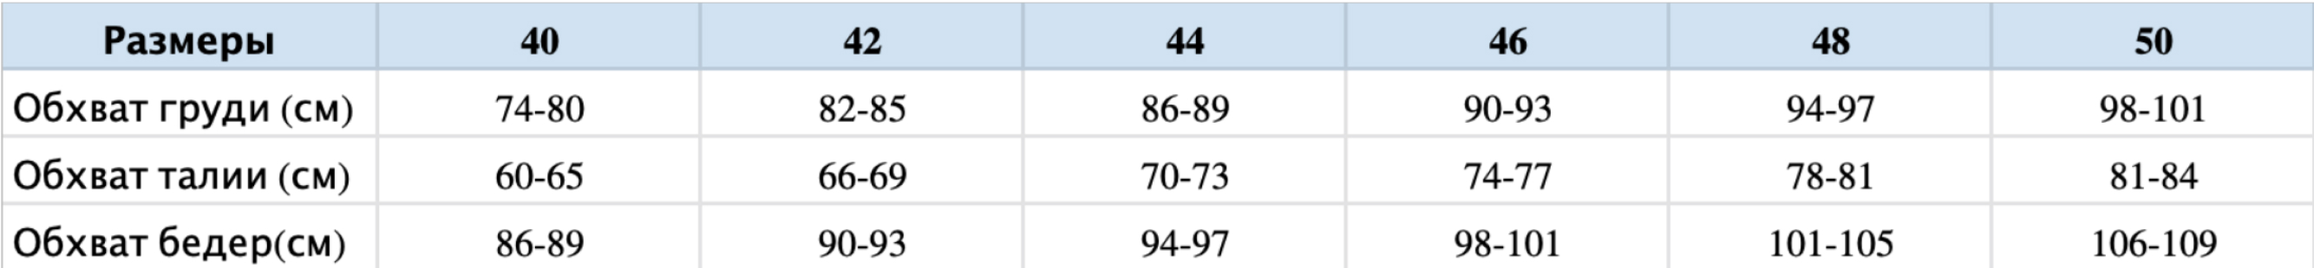
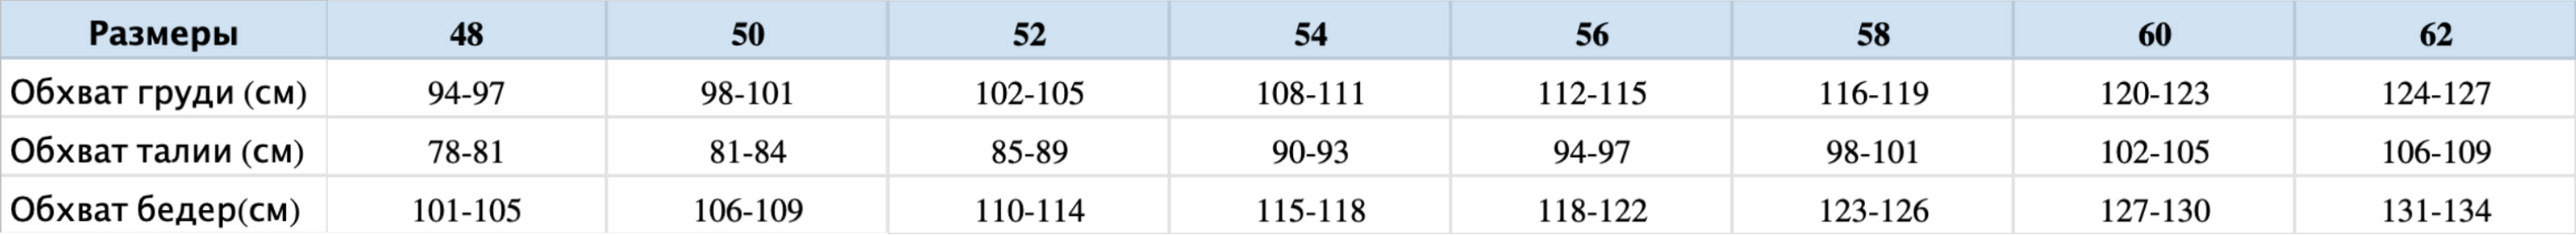
new updates

diff --git a/public/css/main.css b/public/css/main.css
@@ -139,7 +139,7 @@ html,body
     position: fixed;
     background: rgba(128, 128, 128, 0.36);
     display:none;
-    z-index:9999;
+    z-index:999;
 }
 .social {
     padding:15px;

diff --git a/resources/views/modals/size_table.blade.php b/resources/views/modals/size_table.blade.php
@@ -10,9 +10,9 @@
                 <div class="col-12">
                     <img class="img-fluid" src="{{ asset('images/table-lg1.jpg') }}" alt="">
                 </div>
-                <div class="col-12 mt-5">
-                    <img class="img-fluid" src="{{ asset('images/table-lg2.jpg') }}" alt="">
-                </div>
+                {{--<div class="col-12 mt-5">--}}
+                    {{--<img class="img-fluid" src="{{ asset('images/table-lg2.jpg') }}" alt="">--}}
+                {{--</div>--}}
             </div>
                 <div class="p-4">
                     <p class="font-size-14 line-height-120 mb-1">Модели полноразмерные соответствуют российской
@@ -52,10 +52,10 @@
                         </div>
                         <div class="col-8 px-0" style="overflow-x: auto; overflow-y: hidden">
                             <div class="d-flex py-3 align-items-center" style="width:max-content; height: 77px;">
-                                <div class="text-center" style="width: 80px;">40</div>
-                                <div class="text-center" style="width: 80px;">42</div>
-                                <div class="text-center" style="width: 80px;">44</div>
-                                <div class="text-center" style="width: 80px;">46</div>
+                                {{--<div class="text-center" style="width: 80px;">40</div>--}}
+                                {{--<div class="text-center" style="width: 80px;">42</div>--}}
+                                {{--<div class="text-center" style="width: 80px;">44</div>--}}
+                                {{--<div class="text-center" style="width: 80px;">46</div>--}}
                                 <div class="text-center" style="width: 80px;">48</div>
                                 <div class="text-center" style="width: 80px;">50</div>
                                 <div class="text-center" style="width: 80px;">52</div>
@@ -66,10 +66,10 @@
                                 <div class="text-center" style="width: 80px;">62</div>
                             </div>
                             <div class="d-flex py-3" style="background-color: #EEEEEE; width: max-content; height: 77px;">
-                                <div class="text-center d-flex align-items-center justify-content-center" style="width: 80px;">74-80</div>
-                                <div class="text-center d-flex align-items-center justify-content-center" style="width: 80px;">82-85</div>
-                                <div class="text-center d-flex align-items-center justify-content-center" style="width: 80px;">86-89</div>
-                                <div class="text-center d-flex align-items-center justify-content-center" style="width: 80px;">90-93</div>
+                                {{--<div class="text-center d-flex align-items-center justify-content-center" style="width: 80px;">74-80</div>--}}
+                                {{--<div class="text-center d-flex align-items-center justify-content-center" style="width: 80px;">82-85</div>--}}
+                                {{--<div class="text-center d-flex align-items-center justify-content-center" style="width: 80px;">86-89</div>--}}
+                                {{--<div class="text-center d-flex align-items-center justify-content-center" style="width: 80px;">90-93</div>--}}
                                 <div class="text-center d-flex align-items-center justify-content-center" style="width: 80px;">94-97</div>
                                 <div class="text-center d-flex align-items-center justify-content-center" style="width: 80px;">98-101</div>
                                 <div class="text-center d-flex align-items-center justify-content-center" style="width: 80px;">102-105</div>
@@ -80,10 +80,10 @@
                                 <div class="text-center d-flex align-items-center justify-content-center" style="width: 80px;">124-127</div>
                             </div>
                             <div class="d-flex py-3" style="width: max-content; height: 77px;">
-                                <div class="text-center d-flex align-items-center justify-content-center" style="width: 80px;">60-65</div>
-                                <div class="text-center d-flex align-items-center justify-content-center" style="width: 80px;">66-69</div>
-                                <div class="text-center d-flex align-items-center justify-content-center" style="width: 80px;">70-73</div>
-                                <div class="text-center d-flex align-items-center justify-content-center" style="width: 80px;">74-77</div>
+                                {{--<div class="text-center d-flex align-items-center justify-content-center" style="width: 80px;">60-65</div>--}}
+                                {{--<div class="text-center d-flex align-items-center justify-content-center" style="width: 80px;">66-69</div>--}}
+                                {{--<div class="text-center d-flex align-items-center justify-content-center" style="width: 80px;">70-73</div>--}}
+                                {{--<div class="text-center d-flex align-items-center justify-content-center" style="width: 80px;">74-77</div>--}}
                                 <div class="text-center d-flex align-items-center justify-content-center" style="width: 80px;">78-81</div>
                                 <div class="text-center d-flex align-items-center justify-content-center" style="width: 80px;">82-85</div>
                                 <div class="text-center d-flex align-items-center justify-content-center" style="width: 80px;">86-89</div>
@@ -94,10 +94,10 @@
                                 <div class="text-center d-flex align-items-center justify-content-center" style="width: 80px;">106-109</div>
                             </div>
                             <div class="d-flex py-3" style="background-color: #EEEEEE; width: max-content; height: 77px;">
-                                <div class="text-center d-flex align-items-center justify-content-center" style="width: 80px;">86-89</div>
-                                <div class="text-center d-flex align-items-center justify-content-center" style="width: 80px;">90-93</div>
-                                <div class="text-center d-flex align-items-center justify-content-center" style="width: 80px;">94-97</div>
-                                <div class="text-center d-flex align-items-center justify-content-center" style="width: 80px;">98-101</div>
+                                {{--<div class="text-center d-flex align-items-center justify-content-center" style="width: 80px;">86-89</div>--}}
+                                {{--<div class="text-center d-flex align-items-center justify-content-center" style="width: 80px;">90-93</div>--}}
+                                {{--<div class="text-center d-flex align-items-center justify-content-center" style="width: 80px;">94-97</div>--}}
+                                {{--<div class="text-center d-flex align-items-center justify-content-center" style="width: 80px;">98-101</div>--}}
                                 <div class="text-center d-flex align-items-center justify-content-center" style="width: 80px;">102-105</div>
                                 <div class="text-center d-flex align-items-center justify-content-center" style="width: 80px;">106-109</div>
                                 <div class="text-center d-flex align-items-center justify-content-center" style="width: 80px;">110-114</div>

diff --git a/resources/views/layouts/app.blade.php b/resources/views/layouts/app.blade.php
@@ -37,6 +37,17 @@
 ?>
     <div id="app">
         <div class="mobile-backdrop"></div>
+        <div class="sidebar" id="mobile-catalog">
+            <i class="fas fa-times position-absolute fa-lg close-mobile-catalog" style="top:2%; right:10%;"></i>
+            <div class="p-4">
+                <p class="font-size-18 font-weight-bold mb-5">Каталог</p>
+
+                <p class="font-size-18 btn-link font-weight-light mb-1 text-dark" type="button" data-type="switch" data-id="all">Весь каталог</p>
+                @foreach($categories as $category)
+                    <p class="font-size-18 btn-link font-weight-light mb-1 text-dark" type="button" data-type="switch" data-id="{{ $category->id }}">{{ $category->title }}</p>
+                @endforeach
+            </div>
+        </div>
         @include('partials.header')
         <main class="py-4">
             @yield('content')
@@ -95,6 +106,8 @@
 
 
                         <div class="position-absolute w-100 h-100 px-2 py-lg-5 py-2 bg-white shadow-lg" id="settings-modal-{{$product->id}}" style="top:0%; left:0%; display: none; z-index: 99999;">
+                            <div class="d-flex h-100 align-items-center">
+                                <div class="w-100">
                             <img class="position-absolute" style="right:6%; top:2%; cursor: pointer;" id="close-modal" data-id="{{ $product->id }}" src="{{ asset('images/close.svg') }}" alt="">
                             <div>
                                 <p class="font-size-16 font-weight-bold text-center">Параметры</p>
@@ -130,7 +143,10 @@
                                     </div>
                                 </div>
                             </div>
-                            <button class="btn py-2 text-white position-absolute add-to-cart-modal" data-id="{{ $product->id }}" style="background: #2F2F2F; cursor: pointer;bottom: 30%; width: 90%; left:5%;">В корзину</button>
+                            </div>
+                            </div>
+                            <button class="btn py-2 text-white position-absolute add-to-cart-modal" data-id="{{ $product->id }}" style="background: #2F2F2F; cursor: pointer;bottom: 20%; width: 90%; left:5%;">В корзину</button>
+
                         </div>
                     </div>
                 </div>
@@ -177,23 +193,38 @@
         /></noscript>
     <!-- End Facebook Pixel Code -->
 
-    <!-- Yandex.Metrika counter -->
-    <script type="text/javascript" >
-        (function(m,e,t,r,i,k,a){m[i]=m[i]||function(){(m[i].a=m[i].a||[]).push(arguments)};
+<!-- Yandex.Metrika counter -->
+<script type="text/javascript" >
+    (function(m,e,t,r,i,k,a){m[i]=m[i]||function(){(m[i].a=m[i].a||[]).push(arguments)};
         m[i].l=1*new Date();k=e.createElement(t),a=e.getElementsByTagName(t)[0],k.async=1,k.src=r,a.parentNode.insertBefore(k,a)})
-        (window, document, "script", "https://mc.yandex.ru/metrika/tag.js", "ym");
+    (window, document, "script", "https://mc.yandex.ru/metrika/tag.js", "ym");
 
-        ym(66499177, "init", {
+    ym(66499177, "init", {
         clickmap:true,
         trackLinks:true,
         accurateTrackBounce:true,
         webvisor:true
-        });
-    </script>
-    <noscript><div><img src="https://mc.yandex.ru/watch/66499177" style="position:absolute; left:-9999px;" alt="" /></div></noscript>
-    <!-- /Yandex.Metrika counter -->
+    });
+</script>
+<noscript><div><img src="https://mc.yandex.ru/watch/66499177" style="position:absolute; left:-9999px;" alt="" /></div></noscript>
+<!-- /Yandex.Metrika counter -->
 @stack('scripts')
+<script>
+    $('.catalog-list').on('click', function () {
+        document.getElementById('mobile-catalog').style.right = "0px";
+        $('.mobile-backdrop').show();
+    });
 
+    $('.mobile-backdrop').click(function () {
+        $('.mobile-backdrop').hide();
+        document.getElementById('mobile-catalog').style.right = "-300px";
+    });
+
+    $('.close-mobile-catalog').click(function () {
+        $('.mobile-backdrop').hide();
+        document.getElementById('mobile-catalog').style.right = "-300px";
+    });
+</script>
 <script>
     function preloader() {
         // ymaps.ready(init);

diff --git a/resources/views/welcome.blade.php b/resources/views/welcome.blade.php
@@ -43,7 +43,7 @@
                                 <div class="position-absolute bg-white border p-2 color-list dropdown-menu" aria-labelledby="dropdowncolor">
                                     <div class="d-flex align-items-center color-item" data-value="none"><div style="width:15px; height:15px; border-radius:50%; background-color: transparent"></div><span class="color-point ml-3">Все цвета</span></div>
                                     @foreach(\App\Color::all() as $color)
-                                        <div class="d-flex align-items-center color-item" data-value="{{ $color->id }}"><div style="width:15px; height:15px; border-radius:50%; background-color: {{$color->color}}"></div><span class="color-point ml-3">{{$color->title}}</span></div>
+                                        <div class="d-flex align-items-center color-item" data-value="{{ $color->id }}"><div class="border" style="width:15px; height:15px; border-radius:50%; background-color: {{$color->color}}"></div><span class="color-point ml-3">{{$color->title}}</span></div>
                                     @endforeach
                                 </div>
                             </div>
@@ -93,35 +93,10 @@
 
 
 
-    <div class="sidebar" id="mobile-catalog">
-        <i class="fas fa-times position-absolute fa-lg close-mobile-catalog" style="top:2%; right:10%;"></i>
-        <div class="p-4">
-            <p class="font-size-18 font-weight-bold mb-5">Каталог</p>
 
-            <p class="font-size-18 btn-link font-weight-light mb-1 text-dark" type="button" data-type="switch" data-id="all">Весь каталог</p>
-            @foreach($categories as $category)
-                <p class="font-size-18 btn-link font-weight-light mb-1 text-dark" type="button" data-type="switch" data-id="{{ $category->id }}">{{ $category->title }}</p>
-            @endforeach
-        </div>
-    </div>
 @endsection
 @push('scripts')
-    <script>
-        $('.catalog-list').on('click', function () {
-            document.getElementById('mobile-catalog').style.right = "0px";
-            $('.mobile-backdrop').show();
-        });
 
-        $('.mobile-backdrop').click(function () {
-            $('.mobile-backdrop').hide();
-            document.getElementById('mobile-catalog').style.right = "-300px";
-        });
-
-        $('.close-mobile-catalog').click(function () {
-            $('.mobile-backdrop').hide();
-            document.getElementById('mobile-catalog').style.right = "-300px";
-        });
-    </script>
     <script src="https://pagination.js.org/dist/2.1.4/pagination.min.js"></script>
     <script>
         function paginationWithDots(c, m) {
@@ -188,7 +163,7 @@
                 // }
             }
             $('.mobile-backdrop').hide();
-            document.getElementById('mobile-catalog').style.left = "-300px";
+            document.getElementById('mobile-catalog').style.right = "-300px";
             // console.log(input.data('id'));
             let isChecked = (input.hasClass('active') == true ? true : false);
             let id = input.data('id');

diff --git a/resources/views/catalog/list.blade.php b/resources/views/catalog/list.blade.php
@@ -4,26 +4,27 @@
 <div class="col-lg-4 col-6 px-lg-4 px-1 mb-lg-5 mb-4">
     <div class="bg-white position-relative h-100" style="box-shadow: 4px 4px 21px rgba(0, 0, 0, 0.14);">
         <img class="w-100" style="cursor: pointer;" data-toggle="modal" data-target="#product-{{$product->id}}" src="{{ asset('storage/'.json_decode($product->image)[0]) }}" alt="">
-        <div class="p-3">
+        <div class="p-3" style="">
             <p class="font-size-12 text-secondary font-weight-light mb-1">{{$product->article}}</p>
-            <p class="font-size-18 text-dark mb-1 line-height-110">{{ $product->title }}</p>
+            <p class="font-size-18 text-dark mb-1 line-height-110" style="height: 40px; overflow-y: hidden;">{{ $product->title }}</p>
             <div class="d-flex">
                 @foreach($product->colors as $color)
-                    <div class="mr-1 rounded-circle" style="width:20px; height:20px; background-color: {{ $color->color }}"></div>
+                    <div class="mr-1 rounded-circle" style="border: 1px solid #656565; width:20px; height:20px; background-color: {{ $color->color }}"></div>
                 @endforeach
             </div>
             {{--<div class="d-flex justify-content-start mt-2">--}}
 
             {{--</div>--}}
-            <div class="d-flex justify-content-between mt-2">
+            <div class="d-flex justify-content-between mt-2 position-relativex" style="bottom: 0%;">
                 <div>
                 <p class="font-size-12 mb-0 text-secondary font-weight-light">Размер: {{ $product->size }}</p>
-                <p class="font-size-12 text-secondary font-weight-light mb-0">{{ $product->price }} руб</p>
+                <p class="font-size-12 text-secondary font-weight-bold mb-0">{{ $product->price }} руб</p>
                 </div>
                     <div class="d-flex align-items-center justify-content-center order-settings" data-id="{{$product->id}}" style=" background: #2F2F2F; cursor: pointer; transition: 0.5s">
                         <img src="{{ asset('images/addcart.svg') }}" alt="">
                 </div>
             </div>
+
         </div>
         <div class="position-absolute w-100 h-100 px-2 py-lg-5 py-2 bg-white" id="settings-{{$product->id}}" style="top:0%; left:0%; display: none;">
             <img class="position-absolute" style="right:6%; top:2%; cursor: pointer;" id="close" data-id="{{ $product->id }}" src="{{ asset('images/close.svg') }}" alt="">

diff --git a/app/Http/Controllers/BasketController.php b/app/Http/Controllers/BasketController.php
@@ -2,6 +2,7 @@
 
 namespace App\Http\Controllers;
 
+use App\Category;
 use App\Mail\send;
 use App\Product;
 use Illuminate\Http\Request;
@@ -17,6 +18,7 @@ class BasketController extends Controller
 //        $count = Session::get('cart');
 
         $products = Session::get('cart');
+
 
         return view('basket.index',['products' => $products]);
     }

diff --git a/resources/views/basket/index.blade.php b/resources/views/basket/index.blade.php
@@ -5,7 +5,7 @@
 
     $agent = new Agent();
     ?>
-    {{--@dd($products)--}}
+    @dd($categories)
     {{--@dd(\Illuminate\Support\Facades\Session::all())--}}
     <div class="container mb-5" style="margin-top: 120px">
         <div class="row mb-4">
